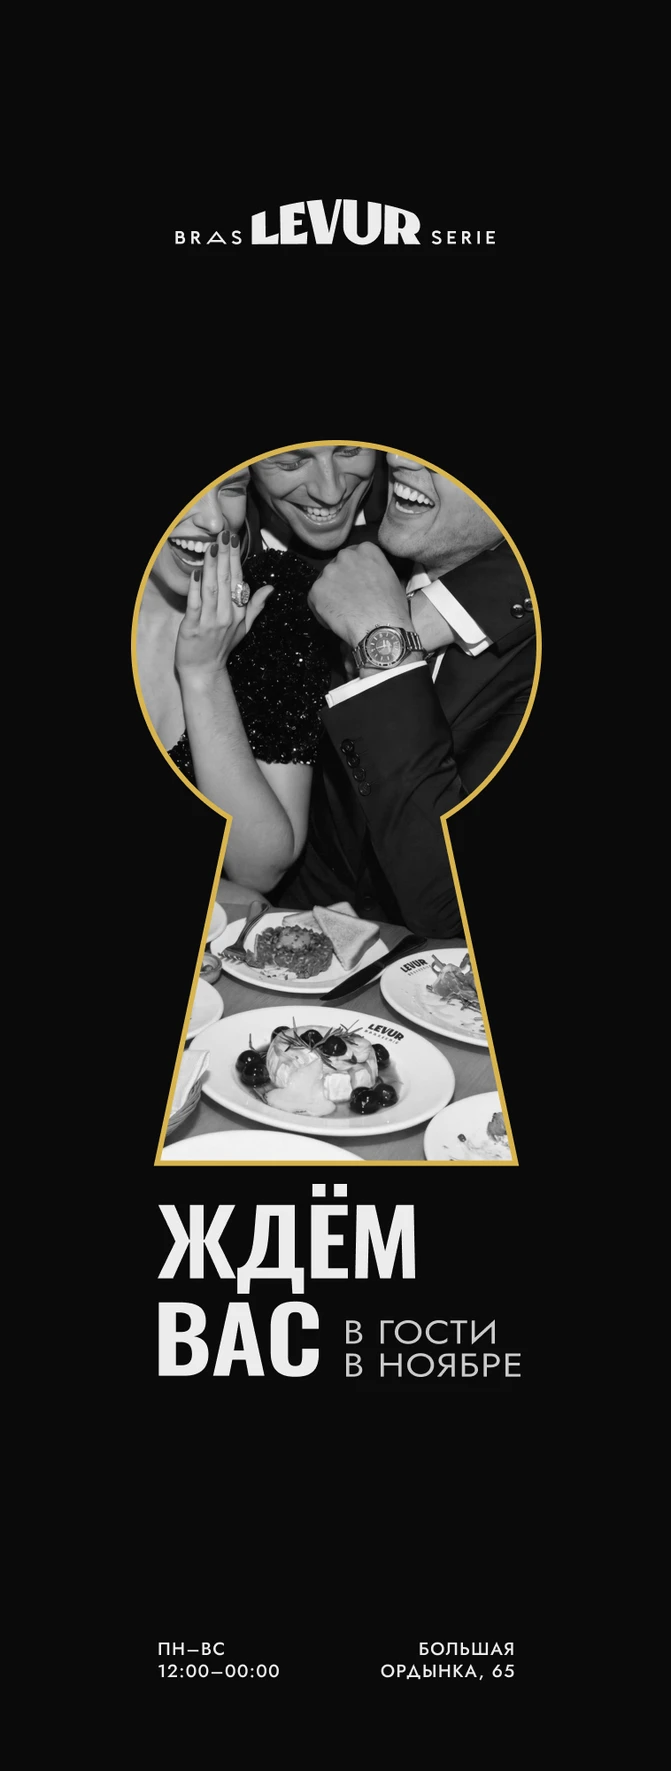
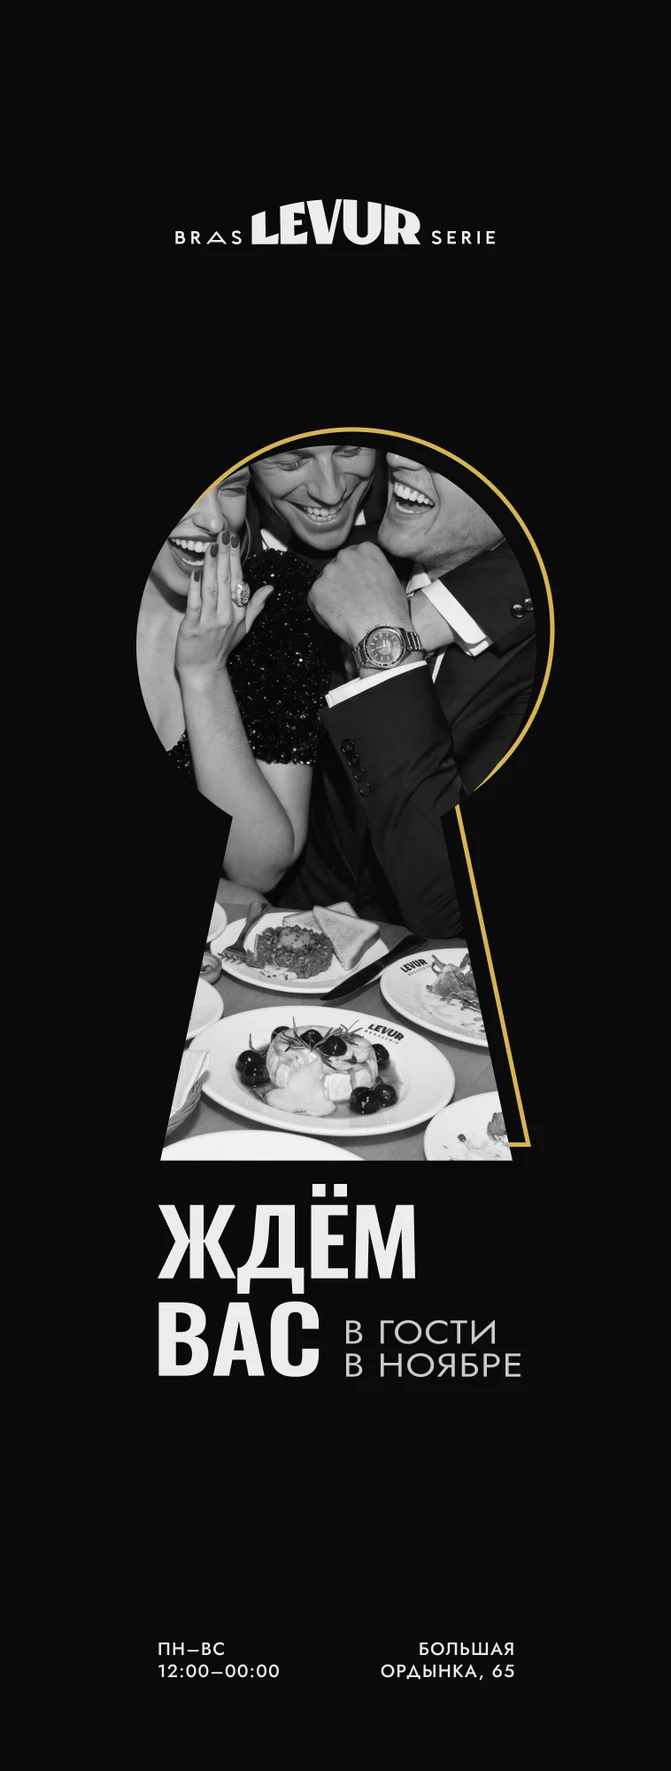
Обводка скважины со смещением, как 3D

diff --git a/index.html b/index.html
@@ -171,7 +171,7 @@
           </div>
           <div class="shade"></div>
         </div></div>
-        <figcaption>Вариант 1<span class="opts" role="group" aria-label="Цвет фото"><button type="button" data-img="k1" data-src="door-3d/sticker-keyhole.webp?v=20261028i" aria-pressed="true">Цвет</button><button type="button" data-img="k1" data-src="door-3d/sticker-keyhole-bw.webp?v=20261028p" aria-pressed="false">ЧБ</button></span></figcaption>
+        <figcaption>Вариант 1<span class="opts" role="group" aria-label="Цвет фото"><button type="button" data-img="k1" data-src="door-3d/sticker-keyhole.webp?v=20261028i" aria-pressed="true">Цвет</button><button type="button" data-img="k1" data-src="door-3d/sticker-keyhole-bw.webp?v=20261028q" aria-pressed="false">ЧБ</button></span></figcaption>
       </figure>
       <figure>
         <div class="frame"><div class="view" role="button" tabindex="0" aria-label="Открыть на весь экран">
@@ -322,7 +322,7 @@
   const K2 = {
     grotesk: { light: 'door-3d/sticker-poster-grotesk-light.webp?v=20261028n', black: 'door-3d/sticker-poster-grotesk-black.webp?v=20261028p',
                green: 'door-3d/sticker-poster-grotesk-green.webp?v=20261028n', wine: 'door-3d/sticker-poster-grotesk-wine.webp?v=20261028n' },
-    serif: { light: 'door-3d/sticker-poster-serif.webp?v=20261028e', black: 'door-3d/sticker-poster-serif-dark.webp?v=20261028p',
+    serif: { light: 'door-3d/sticker-poster-serif.webp?v=20261028e', black: 'door-3d/sticker-poster-serif-dark.webp?v=20261028q',
              green: 'door-3d/sticker-poster-serif-dark-green.webp?v=20261028j', wine: 'door-3d/sticker-poster-serif-dark-wine.webp?v=20261028j' },
   };
   const k2st = { font: 'grotesk', color: { grotesk: 'black', serif: 'black' } };
